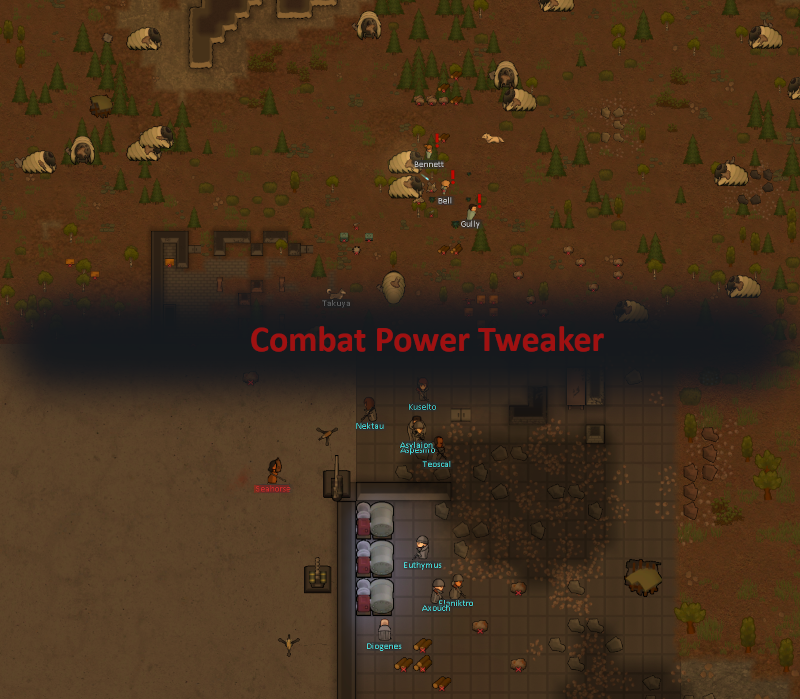
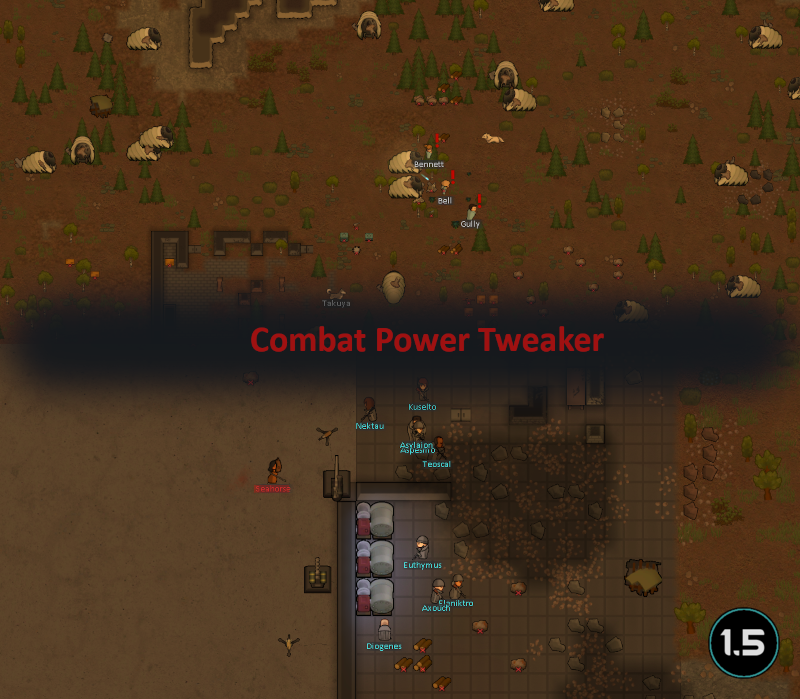
Mod updated for 1.5 and passed autotests

Changed region(s): [[0.875, 0.8712, 1.0, 0.9914]]

diff --git a/README.md b/README.md
@@ -25,12 +25,13 @@ https://ko-fi.com/G2G55DDYD]![Image](https://i.imgur.com/VWG0yff.png)
 
 -  See if the the error persists if you just have this mod and its requirements active.
 -  If not, try adding your other mods until it happens again.
--  Post your error-log using https://steamcommunity.com/workshop/filedetails/?id=818773962]HugsLib and command Ctrl+F12
+-  Post your error-log using https://steamcommunity.com/workshop/filedetails/?id=818773962]HugsLib or the standalone https://steamcommunity.com/sharedfiles/filedetails/?id=2873415404]Uploader and command Ctrl+F12
 -  For best support, please use the Discord-channel for error-reporting.
 -  Do not report errors by making a discussion-thread, I get no notification of that.
 -  If you have the solution for a problem, please post it to the GitHub repository.
+-  Use https://github.com/RimSort/RimSort/releases/latest]RimSort to sort your mods
 
 
 
+https://steamcommunity.com/sharedfiles/filedetails/changelog/2296636827]![Image](https://img.shields.io/github/v/release/emipa606/CombatPowerTweaker?label=latest%20version&style=plastic&labelColor=0070cd&color=white)
 
-https://steamcommunity.com/sharedfiles/filedetails/changelog/2296636827]Last updated 2023-06-06
